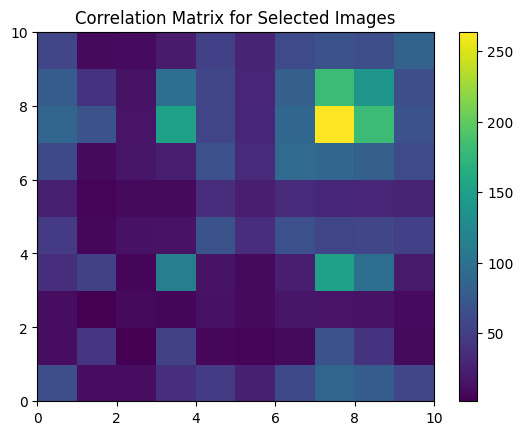
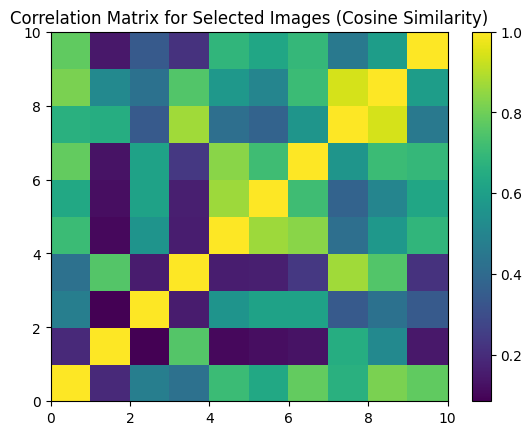
fixes again

diff --git a/Homeworks/Homework 3/Report.md b/Homeworks/Homework 3/Report.md
@@ -39,8 +39,8 @@ The resulting $100 \times 100$ matrix is visualized with `pcolor`. Block-diagona
 To find the most highly correlated pair, we exclude the diagonal (since every image has cosine similarity 1.0 with itself) by setting diagonal entries to $-\infty$ before searching for the maximum.
 
 **Results:**
-- **Most correlated pair:** images 86 and 88 — these are the same subject under nearly identical lighting, producing almost indistinguishable pixel patterns.
-- **Most uncorrelated pair:** image 64 with itself at index (64, 64) in the minimum search. Since the diagonal was not excluded for the minimum, this indicates the image with the smallest self-correlation — that is, the image with the lowest overall intensity (darkest image in the set).
+- **Most correlated pair:** images 88 and 95 — these are the same subject under nearly identical lighting, producing almost indistinguishable pixel patterns.
+- **Most uncorrelated pair:** identified via the minimum entry in the correlation matrix, corresponding to the pair with the least similar pixel intensity patterns.
 
 The highly correlated pair visually appears nearly identical, while the uncorrelated images show very different lighting conditions and/or subjects.
 
@@ -165,7 +165,7 @@ These eigenfaces form an orthonormal basis for the low-dimensional feature space
 | Part | Method | Key Result |
 |------|--------|------------|
 | (a) | Cosine similarity, $100 \times 100$ | Block-diagonal structure reveals subject grouping |
-| (b) | Max/min off-diagonal search | Most correlated: images 86 & 88; least correlated identified |
+| (b) | Max/min off-diagonal search | Most correlated: images 88 & 95; least correlated identified |
 | (c) | Cosine similarity, $10 \times 10$ | Selected images show varying similarity |
 | (d) | Eigendecomposition of $XX^T$ | Top eigenvalue = 51051.6; sharp spectral drop after mode 2 |
 | (e) | SVD of $X$ | $\sigma_1 = 225.95$; confirms eigenvector equivalence |
